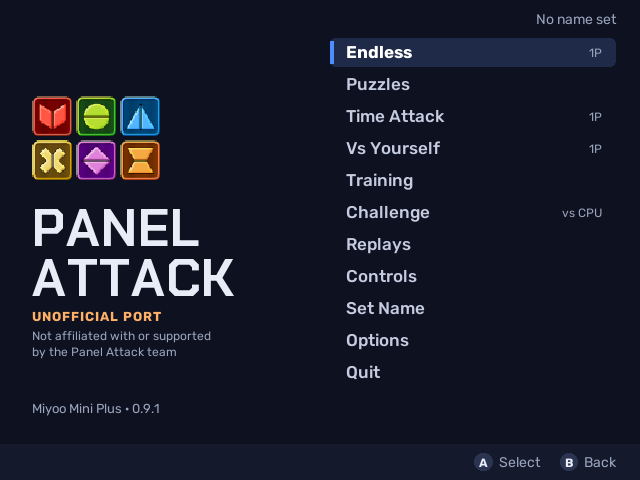
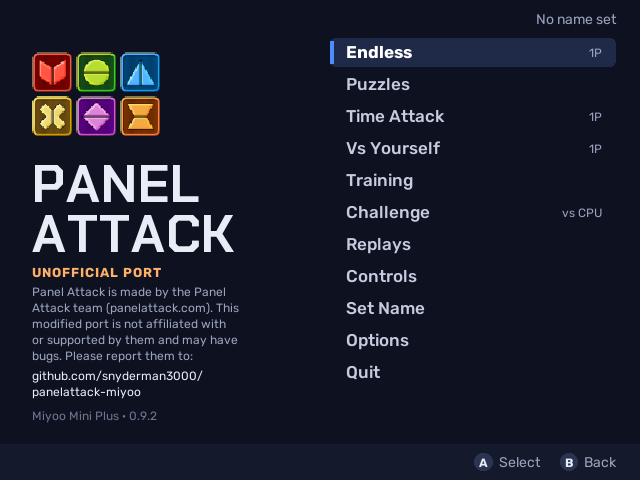
0.9.2: no crash reports to the Panel Attack server, clearer attribution
Removes the sendErrorReport call from the crash handler and points the crash
screen at this project's issue tracker. Title screen, main menu, README,
README.txt and MODIFIED.txt credit the Panel Attack team, say the port is
modified and may have bugs, and direct bug reports here.

Claude-Session: https://claude.ai/code/session_013mJ9qMUybCGXVkVMoyUps9

Changed region(s): [[0.0312, 0.0938, 0.375, 0.875]]

diff --git a/patches.py b/patches.py
@@ -51,9 +51,21 @@ end'''),
     ("client/src/scenes/MainMenu.lua",
      '''switchToScene(Lobby({serverIp = "panelattack.com"}))''',
      '''if not config.name or config.name == "" then switchToScene(SetNameMenu()) else switchToScene(Lobby({serverIp = os.getenv("PA_SERVER") or "panelattack.com", serverPort = tonumber(os.getenv("PA_SERVER_PORT") or "")})) end'''),
+    # Crash reports: never send them to the Panel Attack server. This port is
+    # modified, so its crashes are ours to fix, not the Panel Attack team's.
+    ("pa_main.lua",
+     '''    if GAME.updater and not DEBUG_ENABLED and not os.getenv("LOCAL_LUA_DEBUGGER_VSCODE") then
+      GAME.netClient:sendErrorReport(errorData, consts.SERVER_LOCATION, 49569)
+    end
+''',
+     '''    -- miyoo: crash reports are never sent to the Panel Attack server
+'''),
+    ("pa_main.lua",
+     '''"Error: Please share your crash.log with the developers to get help with this!\\n"''',
+     '''"Error: this is the UNOFFICIAL Miyoo Mini Plus port of Panel Attack.\\nPlease report this crash at github.com/snyderman3000/panelattack-miyoo/issues\\n(attach Roms/PORTS/Games/PanelAttack/log.txt), NOT to the Panel Attack team.\\n"'''),
 ]
 
-MARK = "-- Modified for the Miyoo Mini Plus port (https://github.com/snyderman3000/panelattack-miyoo); see MODIFIED.txt\n"
+MARK ="-- Modified for the Miyoo Mini Plus port (https://github.com/snyderman3000/panelattack-miyoo); see MODIFIED.txt\n"
 
 failed = False
 changed = []
@@ -80,11 +92,19 @@ snyderman3000 with Claude (Anthropic) and not affiliated with the Panel Attack
 team. Original game: https://github.com/panel-attack/panel-game
 Port source and the full list of changes: https://github.com/snyderman3000/panelattack-miyoo
 
+These changes may have introduced bugs that the original game does not have.
+Report every problem with this port at
+https://github.com/snyderman3000/panelattack-miyoo/issues, never to the Panel
+Attack team. This port never sends crash reports to the Panel Attack server.
+
 Changes compared with the original source:
 - main.lua was renamed to pa_main.lua; a new main.lua and conf.lua start the
   Miyoo layer first.
 - Added: miyoo/ (renderer bindings, graphics/input/audio replacements,
   handheld UI, on-screen keyboard, runtime patches) and the fonts in miyoo/fonts.
+- Crash reports are not sent to the Panel Attack server, and the crash
+  screen points to this port's issue tracker.
+- Online play is off unless online.cfg turns it on.
 - Edited (each file is marked at the top):
 """)
     for rel in changed:

diff --git a/README.md b/README.md
@@ -2,9 +2,13 @@
 
 **[Panel Attack](https://github.com/panel-attack/panel-game) (the free Tetris Attack / Puzzle League clone) running on the Miyoo Mini Plus under OnionOS.**
 
-> **Unofficial port**, not affiliated with or supported by the Panel Attack team. **Online play is turned off for now** while we check with the Panel Attack team that they're happy for this port to use their server; the code is all still there (switch: `online.cfg` in the game folder).
-
-> **Unofficial.** This is a modified version of Panel Attack for one handheld, not affiliated with the Panel Attack team. Please report problems with this port here, not to them. The full list of changes ships in the game folder as `MODIFIED.txt`.
+> [!IMPORTANT]
+> **This is an unofficial, modified port. It is not made, endorsed or supported by the Panel Attack team.**
+>
+> - **The original game:** [Panel Attack](https://panelattack.com) is made by the Panel Attack team ([source](https://github.com/panel-attack/panel-game), zlib license). All credit for the game, its design and its art goes to them and to the artists listed in [COPYING-ASSETS](https://github.com/panel-attack/panel-game/blob/main/COPYING-ASSETS).
+> - **This port changes their code** to run on the Miyoo Mini Plus (a new renderer, a new handheld UI, memory and sound changes, and more). Those changes **may have bugs that the real game doesn't have.** The full list of changes ships in the game folder as `MODIFIED.txt`.
+> - **Please report every problem with this port [here](https://github.com/snyderman3000/panelattack-miyoo/issues), never to the Panel Attack team** (not on their GitHub, not on their Discord). The port never sends crash reports to the Panel Attack server; crashes show a message pointing here instead.
+> - **Online play is turned off for now** while we check with the Panel Attack team that they're happy for this port to use their server. The code is still there (switch: `online.cfg` in the game folder).
 
 > 🤖 **Built by Claude.** This port was designed and written by [Claude](https://claude.ai), Anthropic's AI model, at the request of [@snyderman3000](https://github.com/snyderman3000). He came up with the idea, chose the direction and tested every build on real hardware. Claude wrote the code, the renderer, the handheld UI and the documentation. Please report bugs through [Issues](https://github.com/snyderman3000/panelattack-miyoo/issues).
 

diff --git a/docs/releases/v0.9.2.md b/docs/releases/v0.9.2.md
@@ -1,0 +1,7 @@
+Makes it clearer that this is an unofficial, modified port, and who to tell about bugs.
+
+- **Crash reports are never sent to the Panel Attack server.** (The original game sends them only from official builds, so this port wasn't sending any, but the call is now removed outright.) The crash screen now points to this project's [issue tracker](https://github.com/snyderman3000/panelattack-miyoo/issues) instead of the Panel Attack developers.
+- The title screen and main menu credit the original game (made by the Panel Attack team, panelattack.com), say that this modified port isn't affiliated with or supported by them and may have bugs, and give the address for bug reports.
+- The README, README.txt and MODIFIED.txt say the same.
+
+Please report every problem with this port [here](https://github.com/snyderman3000/panelattack-miyoo/issues), never to the Panel Attack team.
